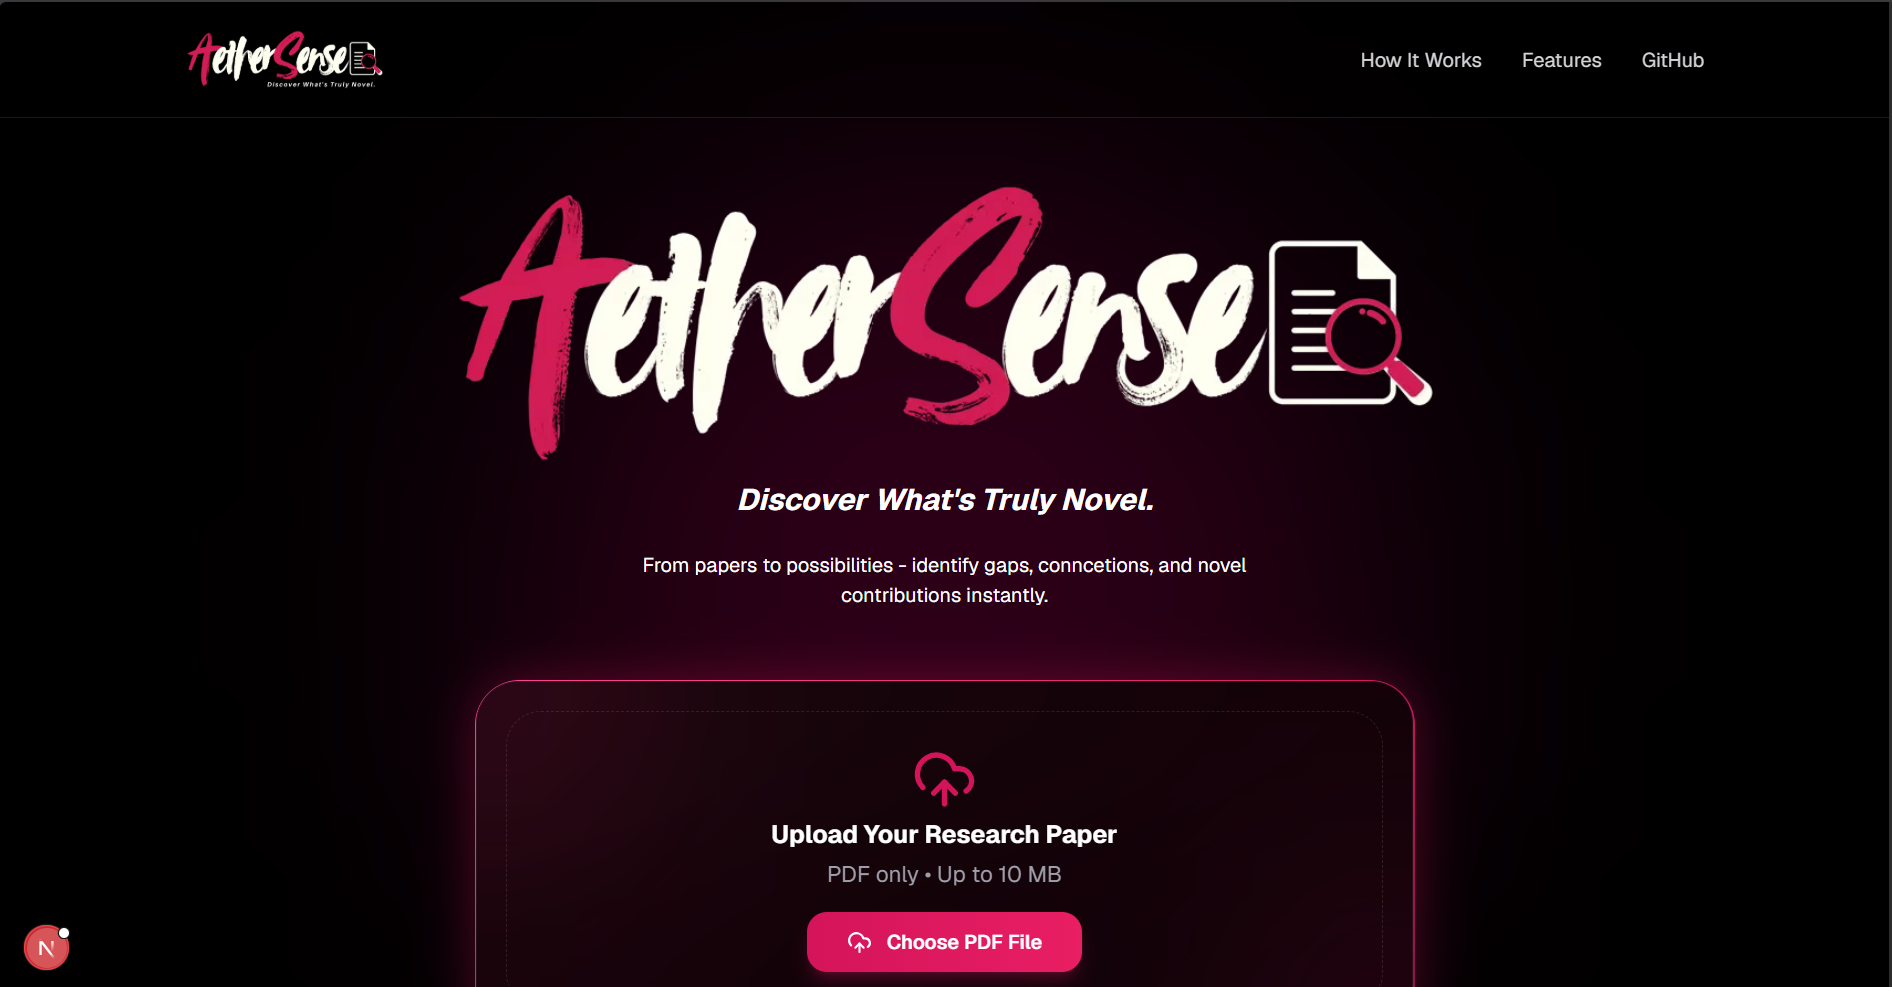
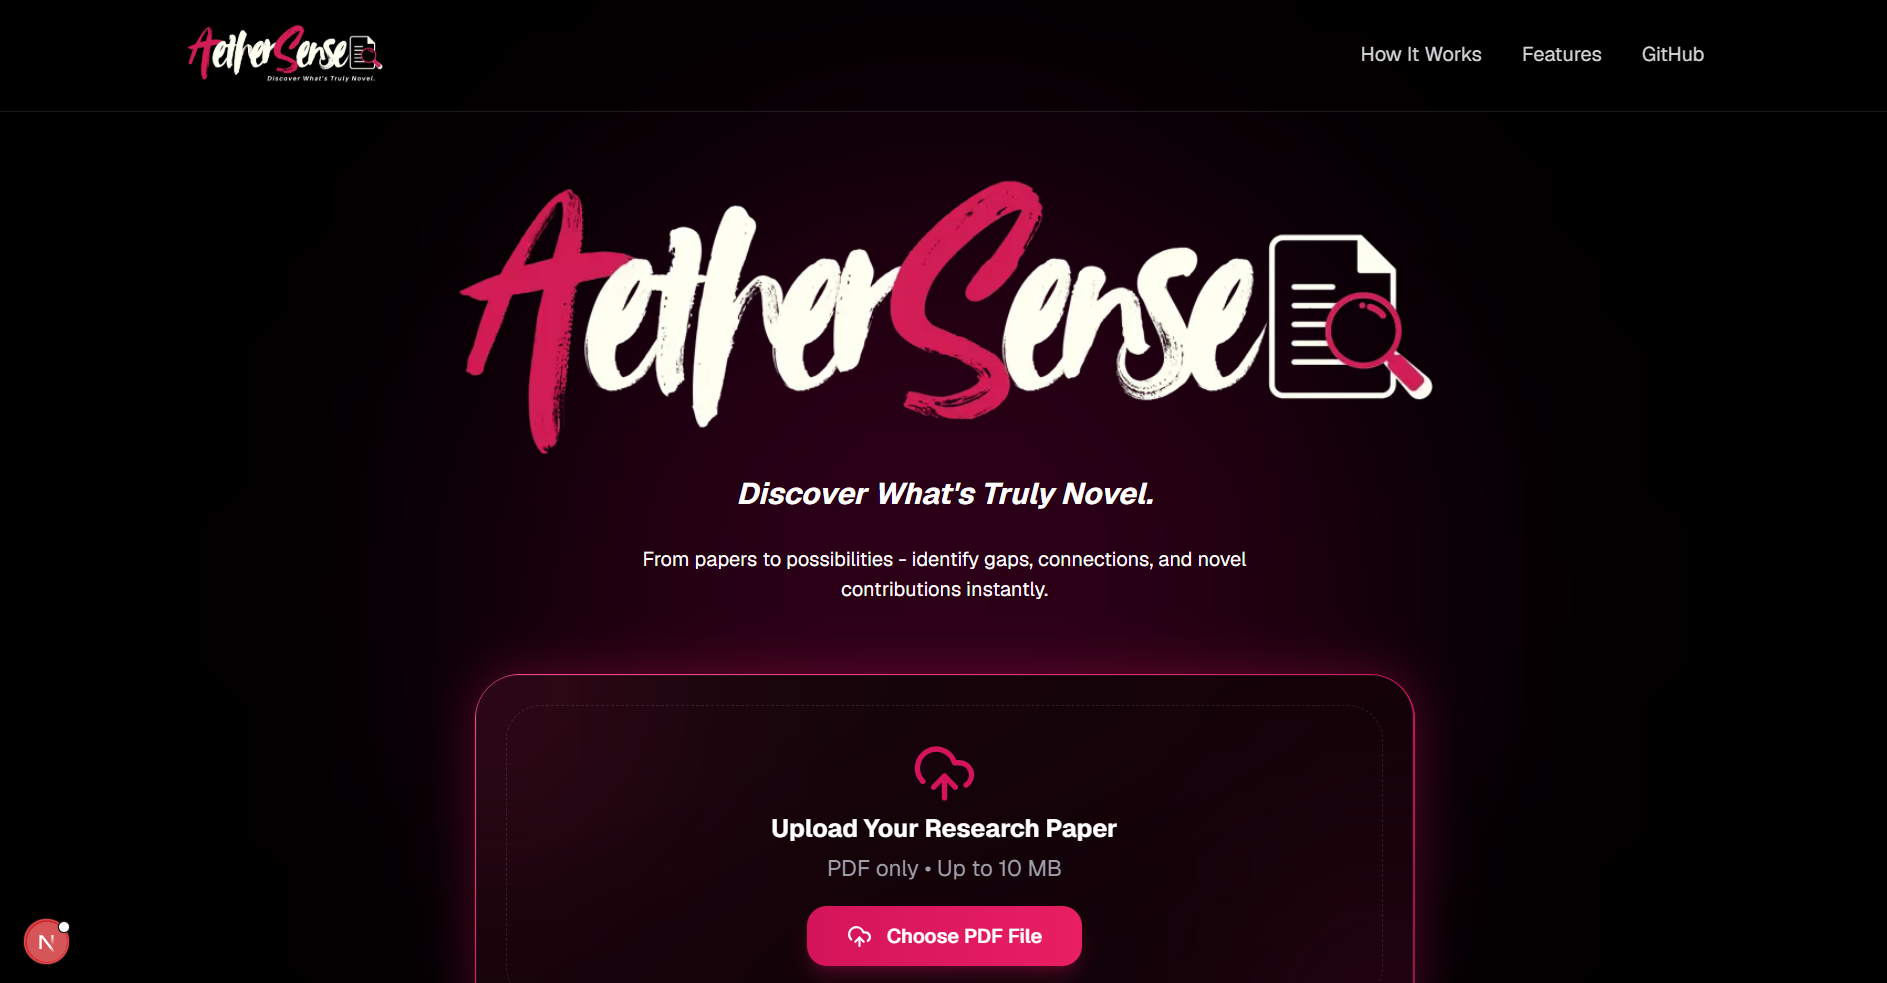
Miscellaneous Changes

diff --git a/frontend/app/report/[paperId]/page.tsx b/frontend/app/report/[paperId]/page.tsx
@@ -63,23 +63,23 @@ export default async function ReportPage(
                         </Link>
 
                         <p className="
-            uppercase
-            tracking-[0.3em]
-            text-sm
-            text-[#D4145A]
-            mt-10
-            mb-4
-        ">
+                            uppercase
+                            tracking-[0.3em]
+                            text-sm
+                            text-[#D4145A]
+                            mt-10
+                            mb-4
+                        ">
                             Novelty Intelligence Report
                         </p>
 
                         <h1 className="
-            text-4xl
-            md:text-5xl
-            font-bold
-            mb-4
-            max-w-4xl
-        ">
+                            text-4xl
+                            md:text-5xl
+                            font-bold
+                            mb-4
+                            max-w-4xl
+                        ">
                             {report.paper_info.title}
                         </h1>
 
@@ -92,19 +92,19 @@ export default async function ReportPage(
                     {/* Logo */}
 
                     <div className="
-        flex
-        justify-center
-        md:justify-end
-    ">
+                        flex
+                        justify-center
+                        md:justify-end
+                    ">
 
                         <Image
                             src="/AetherSense Short.png"
                             alt="AetherSense"
-                            width={140}
-                            height={140}
+                            width={200}
+                            height={200}
                             className="
-                w-24
-                md:w-32
+                w-50
+                md:w-50
                 h-auto
                 object-contain
                 opacity-90

diff --git a/frontend/components/Hero.tsx b/frontend/components/Hero.tsx
@@ -106,7 +106,7 @@ export default function Hero() {
                         mx-auto
                     "
                 >
-                    From papers to possibilities - identify gaps, conncetions, and novel contributions instantly.
+                    From papers to possibilities - identify gaps, connections, and novel contributions instantly.
                 </motion.p>
 
                 <motion.div